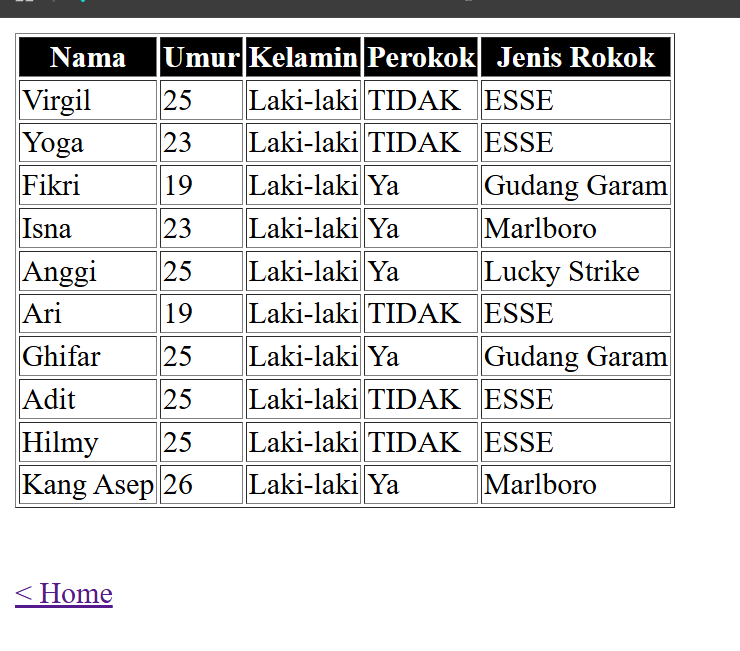
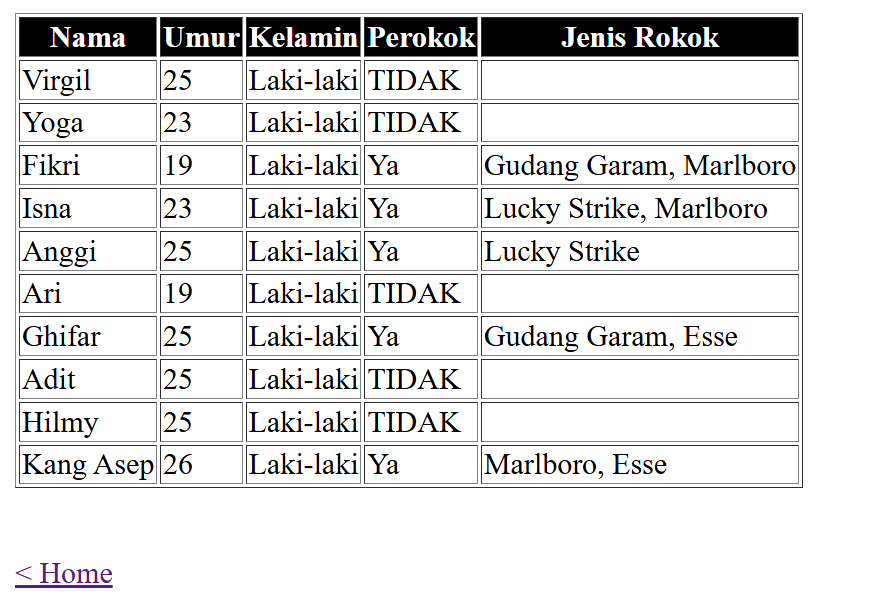
feat: update jenis rokok if user not perokok, and update picture in assets

diff --git a/pages/tableData.html b/pages/tableData.html
@@ -23,28 +23,28 @@
           <td><font color="black">25</font></td>
           <td><font color="black">Laki-laki</font></td>
           <td><font color="black">TIDAK</font></td>
-          <td><font color="black">ESSE</font></td>
+          <td><font color="black"></font></td>
         </tr>
         <tr>
           <td><font color="black">Yoga</font></td>
           <td><font color="black">23</font></td>
           <td><font color="black">Laki-laki</font></td>
           <td><font color="black">TIDAK</font></td>
-          <td><font color="black">ESSE</font></td>
+          <td><font color="black"></font></td>
         </tr>
         <tr>
           <td><font color="black">Fikri</font></td>
           <td><font color="black">19</font></td>
           <td><font color="black">Laki-laki</font></td>
           <td><font color="black">Ya</font></td>
-          <td><font color="black">Gudang Garam</font></td>
+          <td><font color="black">Gudang Garam, Marlboro</font></td>
         </tr>
         <tr>
           <td><font color="black">Isna</font></td>
           <td><font color="black">23</font></td>
           <td><font color="black">Laki-laki</font></td>
           <td><font color="black">Ya</font></td>
-          <td><font color="black">Marlboro</font></td>
+          <td><font color="black">Lucky Strike, Marlboro</font></td>
         </tr>
         <tr>
           <td><font color="black">Anggi</font></td>
@@ -58,35 +58,35 @@
           <td><font color="black">19</font></td>
           <td><font color="black">Laki-laki</font></td>
           <td><font color="black">TIDAK</font></td>
-          <td><font color="black">ESSE</font></td>
+          <td><font color="black"></font></td>
         </tr>
         <tr>
           <td><font color="black">Ghifar</font></td>
           <td><font color="black">25</font></td>
           <td><font color="black">Laki-laki</font></td>
           <td><font color="black">Ya</font></td>
-          <td><font color="black">Gudang Garam</font></td>
+          <td><font color="black">Gudang Garam, Esse</font></td>
         </tr>
         <tr>
           <td><font color="black">Adit</font></td>
           <td><font color="black">25</font></td>
           <td><font color="black">Laki-laki</font></td>
           <td><font color="black">TIDAK</font></td>
-          <td><font color="black">ESSE</font></td>
+          <td><font color="black"></font></td>
         </tr>
         <tr>
           <td><font color="black">Hilmy</font></td>
           <td><font color="black">25</font></td>
           <td><font color="black">Laki-laki</font></td>
           <td><font color="black">TIDAK</font></td>
-          <td><font color="black">ESSE</font></td>
+          <td><font color="black"></font></td>
         </tr>
         <tr>
           <td><font color="black">Kang Asep</font></td>
           <td><font color="black">26</font></td>
           <td><font color="black">Laki-laki</font></td>
           <td><font color="black">Ya</font></td>
-          <td><font color="black">Marlboro</font></td>
+          <td><font color="black">Marlboro, Esse</font></td>
         </tr>
       </tbody>
     </table>
